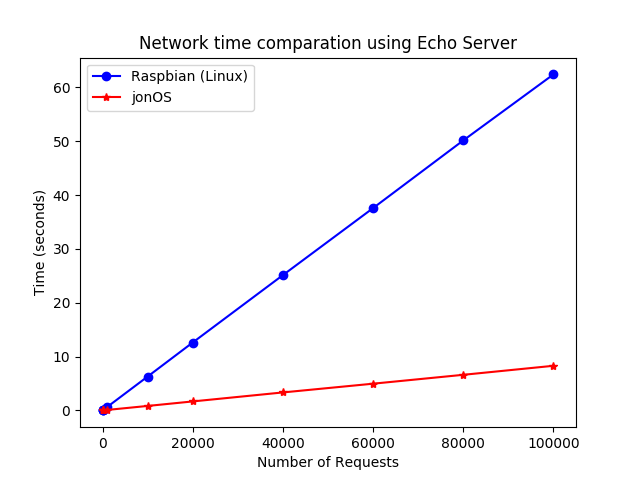
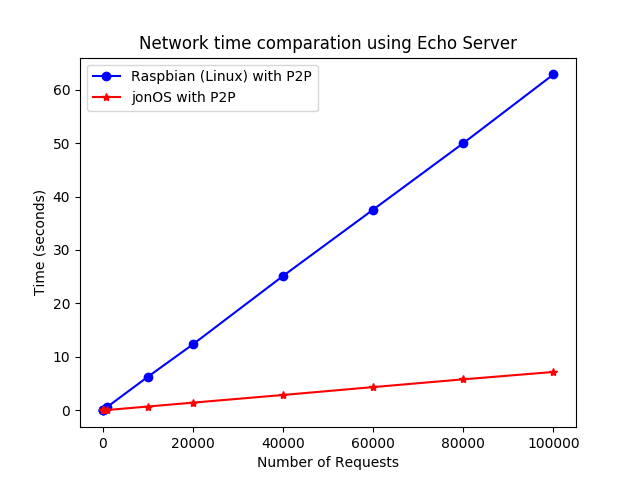
Network graph replaced

diff --git a/performanceTest/Network/graph.py b/performanceTest/Network/graph.py
@@ -29,12 +29,12 @@ jonOS_peer2peerY = [x / 10 for x in jonOS_peer2peerY]
 
 plt.title('Network time comparation using Echo Server')
 #plt.plot(xAxis, raspbianY, '-bo', label='Raspbian (Linux) with Router')
-plt.plot(xAxis, jonOSY, '-r*', label='jonOS with Router')
-#plt.plot(xAxis, raspbian_peer2peerY, '-g^', label='Raspbian (Linux) with P2P')
-plt.plot(xAxis, jonOS_peer2peerY, '-ys', label='jonOS with P2P')
+#plt.plot(xAxis, jonOSY, '-r*', label='jonOS with Router')
+plt.plot(xAxis, raspbian_peer2peerY, '-bo', label='Raspbian (Linux) with P2P')
+plt.plot(xAxis, jonOS_peer2peerY, '-r*', label='jonOS with P2P')
 plt.xlabel('Number of Requests')
 plt.ylabel('Time (seconds)')
 #plt.xscale('log')
 plt.legend()
-plt.show()
-#plt.savefig('graph.png')
+#plt.show()
+plt.savefig('graph.png')
